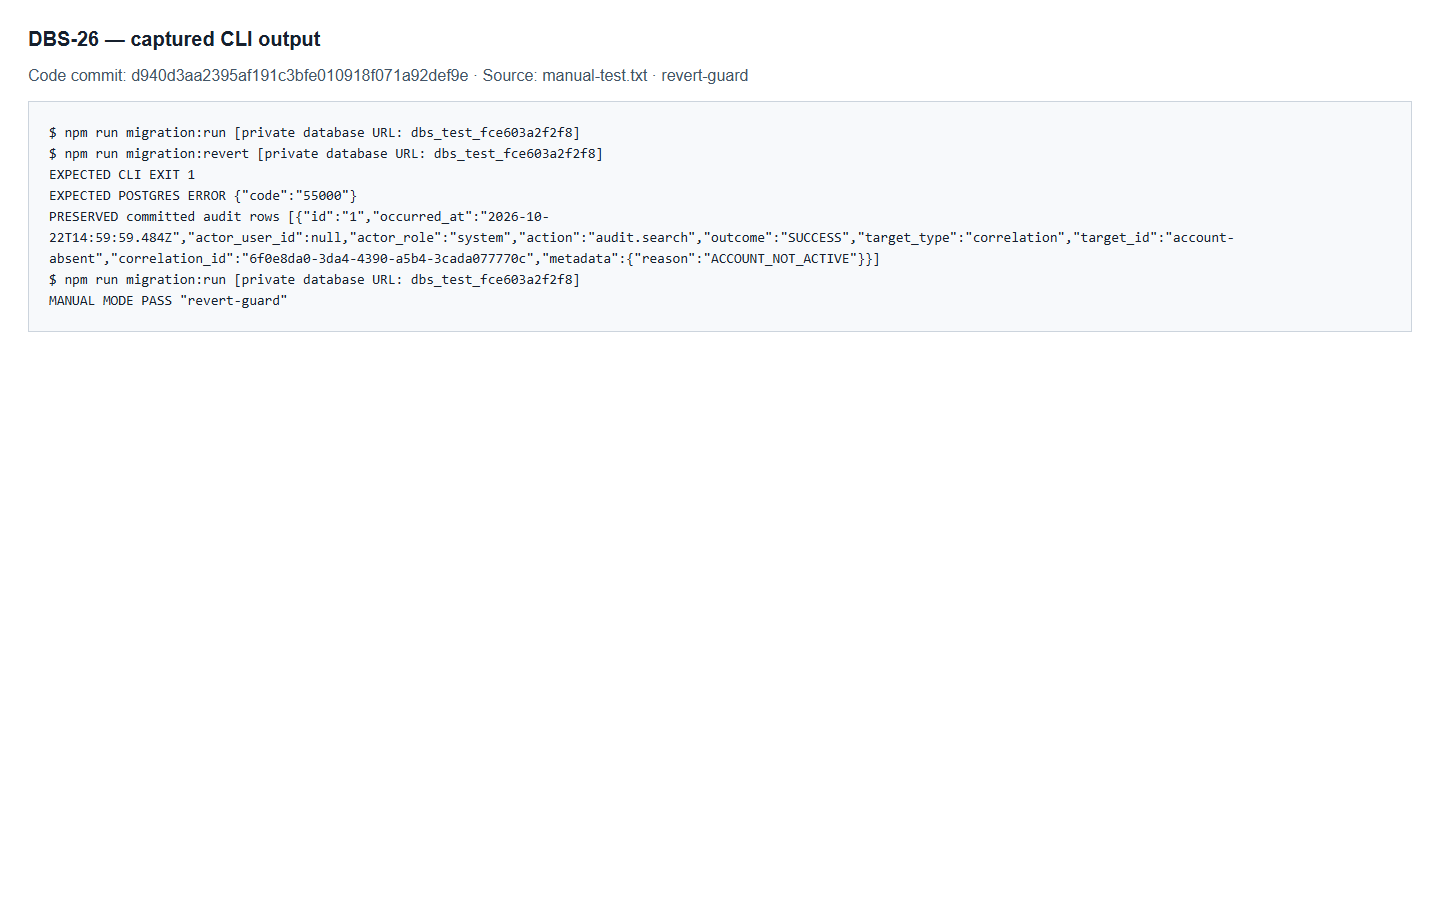
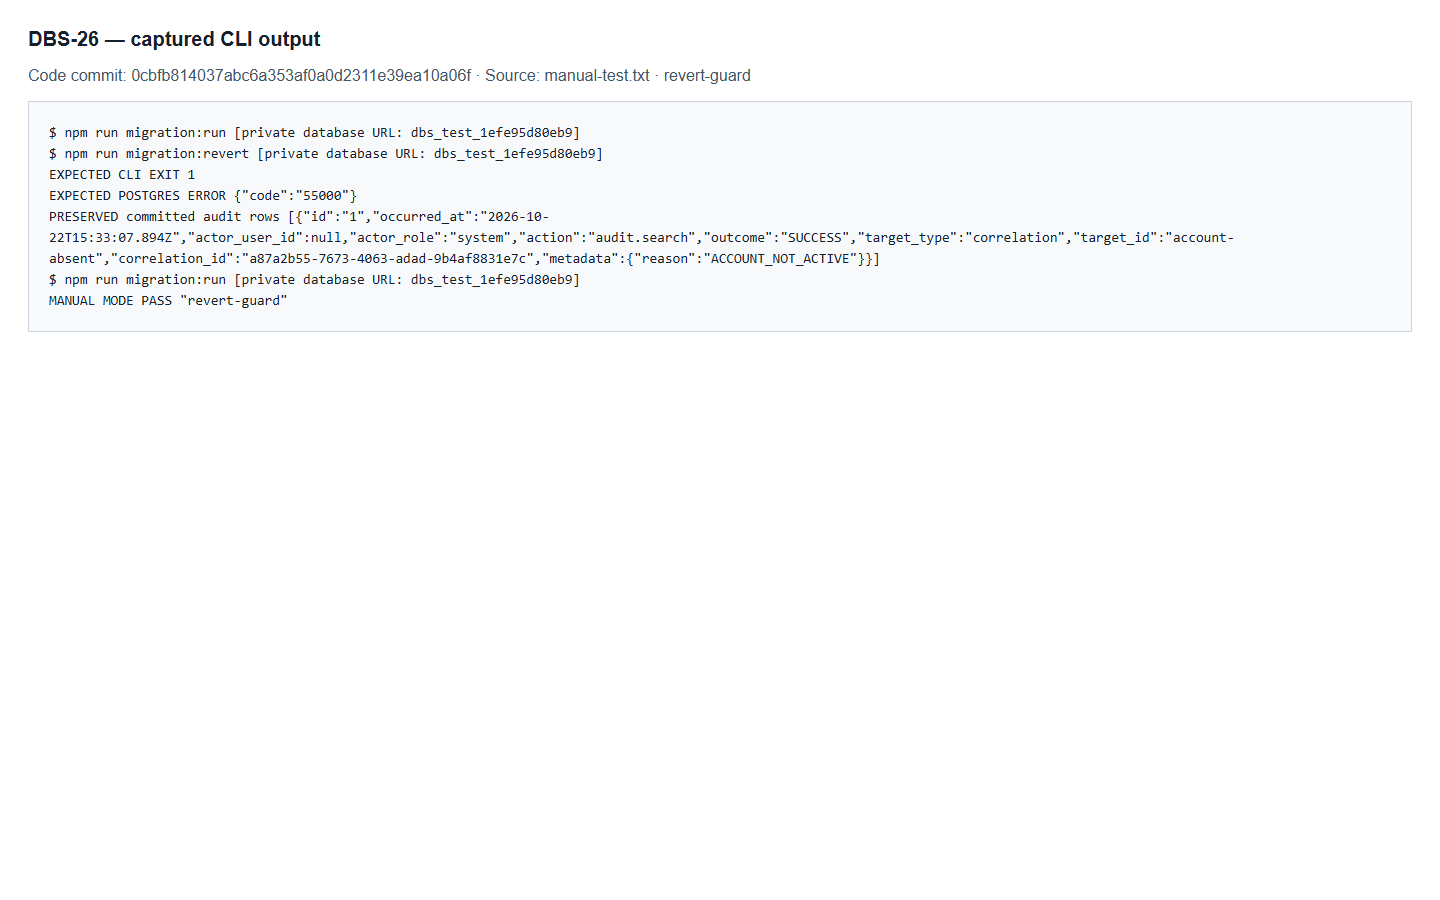
docs(audit): refresh evidence after timezone regression fix

diff --git a/docs/features/DBS-26-migration-audit-log.md b/docs/features/DBS-26-migration-audit-log.md
@@ -1,6 +1,6 @@
 # DBS-26 · Migration: audit_log
 
-> **Status:** Implemented · **Vai:** Dev · **Reviewer:** Dev khác, chưa chỉ định · **Nhánh:** `feat/DBS-26-migration-audit-log` · **PR:** [PR](https://github.com/Lawliet119/digital-banking-simulator/pull/13) · **Cập nhật:** 2026-10-22
+> **Status:** Implemented · **Vai:** Dev · **Reviewer:** Dev khác, chưa chỉ định · **Nhánh:** `feat/DBS-26-migration-audit-log` · **PR:** [PR](https://github.com/Lawliet119/digital-banking-simulator/pull/13) · **Cập nhật:** 2026-10-24
 
 ## 1. Bối cảnh
 
@@ -215,7 +215,7 @@ Mermaid ở §3 đã render thành công bằng mermaid-cli 12.0.0 sau chỉnh s
 
 ## 8. Kết quả
 
-**Trạng thái:** đã được người dùng duyệt G4; triển khai local hoàn tất, bàn giao qua PR. Dev review/CI/merge theo trạng thái PR. Code cuối: `d940d3aa2395af191c3bfe010918f071a92def9e` (dòng đầu transcript), thuộc nhánh riêng `feat/DBS-26-migration-audit-log`; không có source DBS-25. Worktree kiểm tra độc lập dùng nhánh tạm local `codex/dbs26-build`, fast-forward kết quả vào nhánh feat tương ứng trước bàn giao.
+**Trạng thái:** đã được người dùng duyệt G4; triển khai local hoàn tất, bàn giao qua PR. Dev review/CI/merge theo trạng thái PR. Code cuối: `0cbfb814037abc6a353af0a0d2311e39ea10a06f` (dòng đầu transcript), thuộc nhánh riêng `feat/DBS-26-migration-audit-log`; không có source DBS-25. Worktree kiểm tra độc lập dùng nhánh tạm local `codex/dbs26-build`, fast-forward kết quả vào nhánh feat tương ứng trước bàn giao.
 
 **Kiểm tra bàn giao:** [output đầy đủ](screenshots/DBS-26/verification.txt): lint/typecheck/build đạt; unit **23 suite / 349 test**, e2e **4 suite / 25 test**, PostgreSQL **5 suite / 87 test** đạt, 0 skip. Có 49 test nền và 38 lượt mới audit/helper. Không có mock database.
 
@@ -279,6 +279,8 @@ Kiểm chuỗi với trigger27 phát hiện sáu regression đỏ do audit khôn
 **Bàn giao:** BL-017 AuditService/API/metadata/fail-closed/production roles, trigger do DBS-27 cung cấp; BL-018 Dev review/CI/merge. BL-005 quyền/chủ view còn nguyên; task26 không nhận AC-8.1 production roles hoặc AC-8.2 HTTP đã đạt. Fixture chỉ có UUID/mã kỹ thuật tổng hợp; transcript đã rà không có token, Authorization, password, AWS ID/ARN.
 
 **Quyết định ở G4 (2026-10-22):** người dùng trả lời «duyệt g4», chấp nhận kết quả, tài liệu và bằng chứng bàn giao; trạng thái chuyển Implemented. Được phép push nhánh riêng và mở PR theo template. Agent không sửa board hoặc merge PR; Dev khác review.
+
+**CI sau G4:** [job DB đầu của PR13](https://github.com/Lawliet119/digital-banking-simulator/actions/runs/39804974688/job/119915640569) phát hiện TC-26-04 so tên timezone quá chặt: PostgreSQL Debian trả `Etc/UTC`, local trả `UTC`; [trích output lỗi](screenshots/DBS-26/ci-timezone-failure.txt). Đã tái hiện đỏ bằng session options trên DB tạm, rồi sửa test nhận hai tên UTC tương đương và kiểm offset mùa đông/mùa hè đều bằng 0. Toàn bộ 87 test DB với `Etc/UTC` đã xanh trước commit `0cbfb81`; production migration, env và schema không đổi. Sau commit, đã chạy lại đủ chín bước manual, sáu baseline và kiểm tương thích 150 test; transcript/ảnh mới mang SHA nêu trên. CI của commit bàn giao được xác nhận riêng trên PR.
 
 ## 9. Tài liệu đã cập nhật
 
